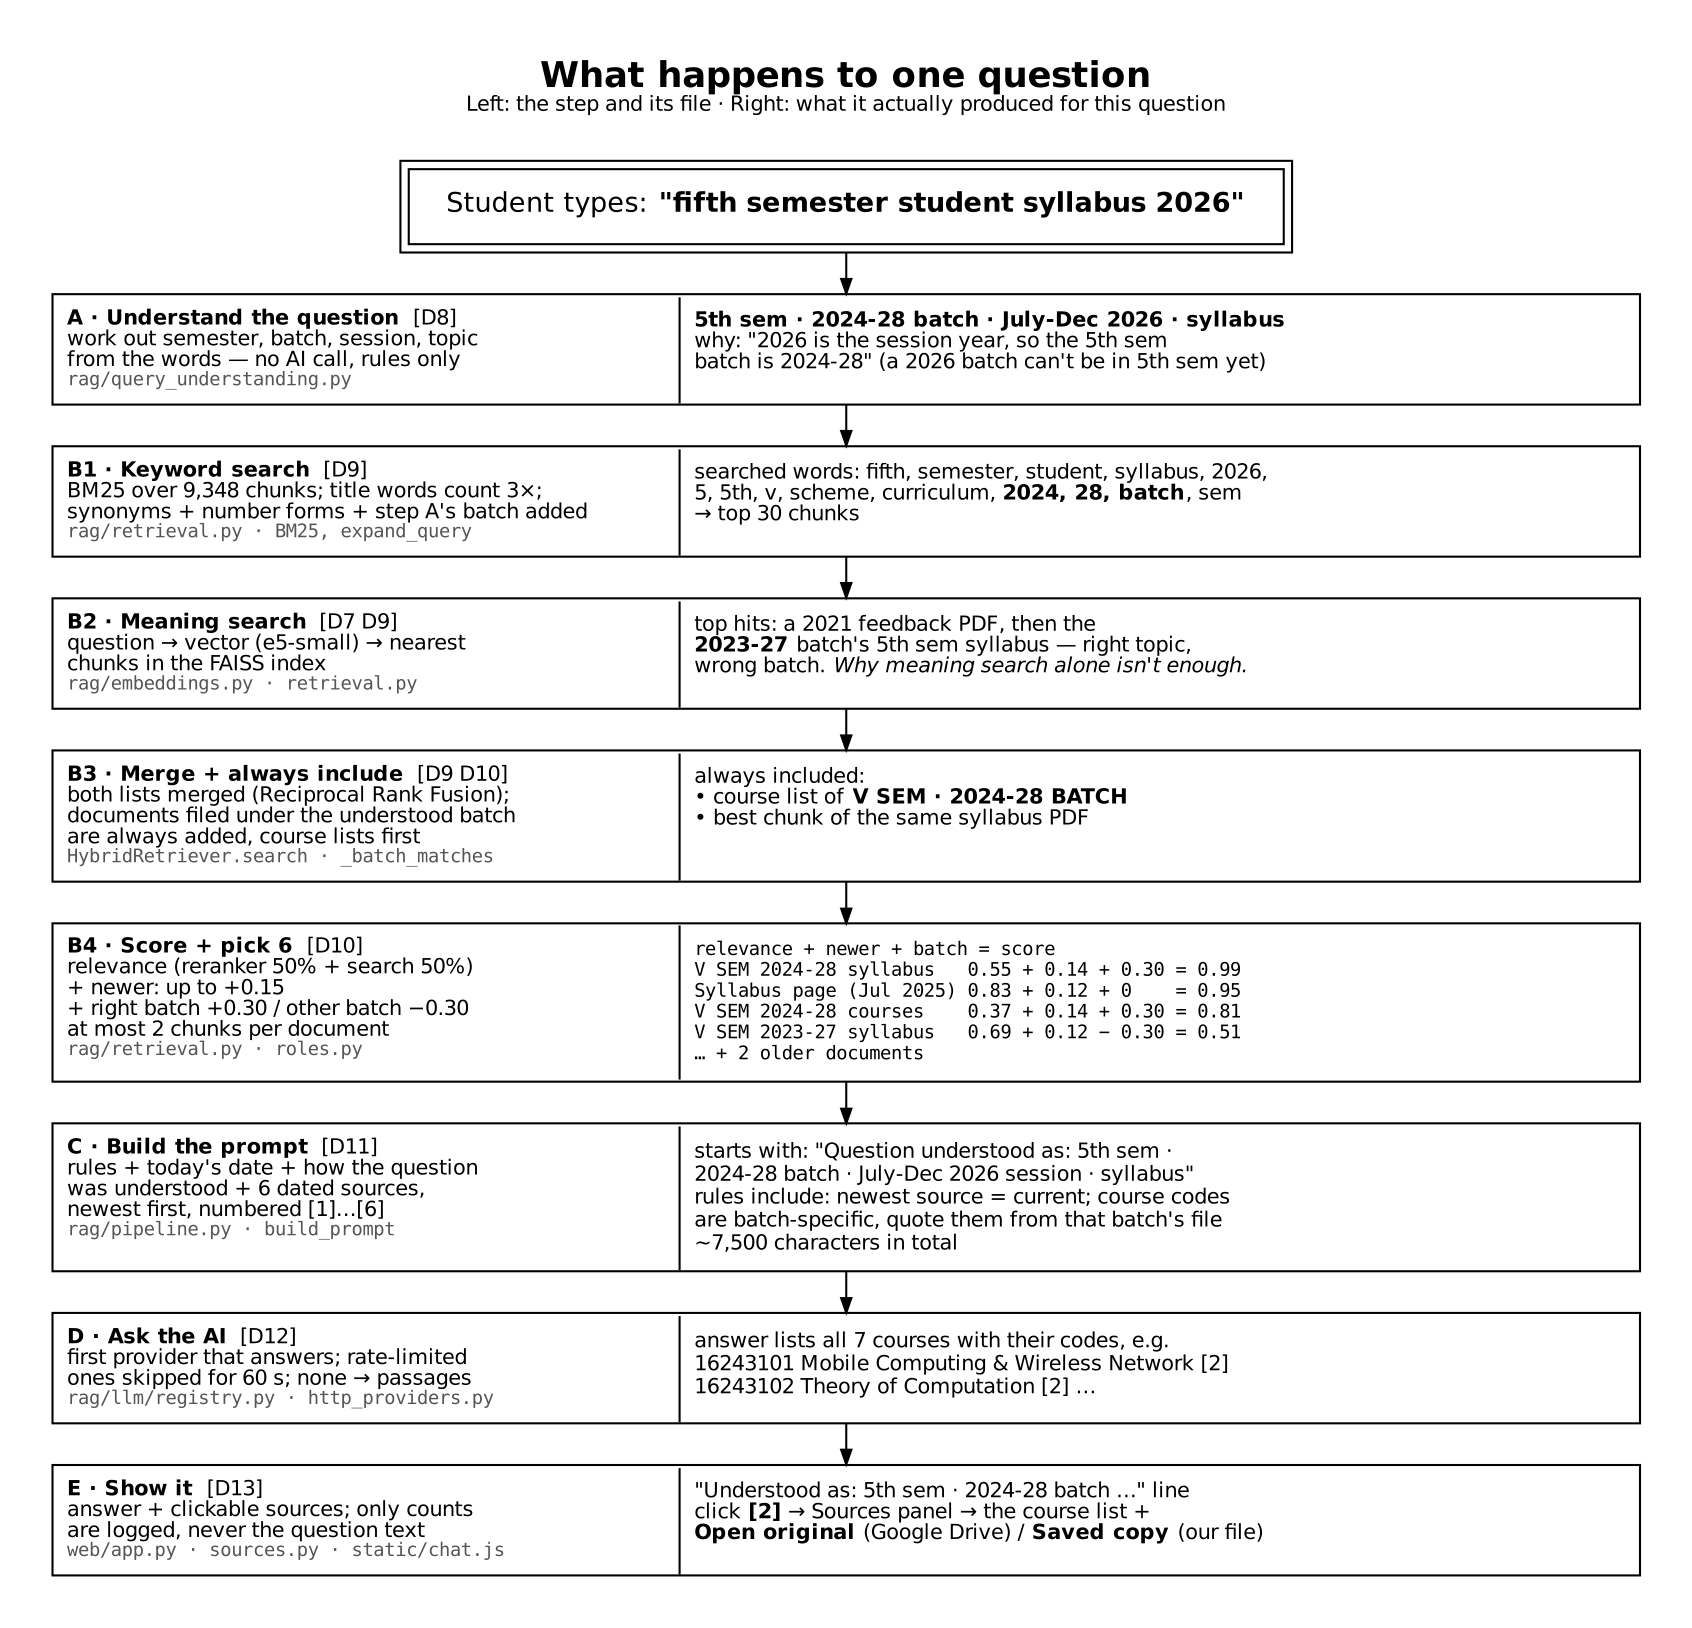
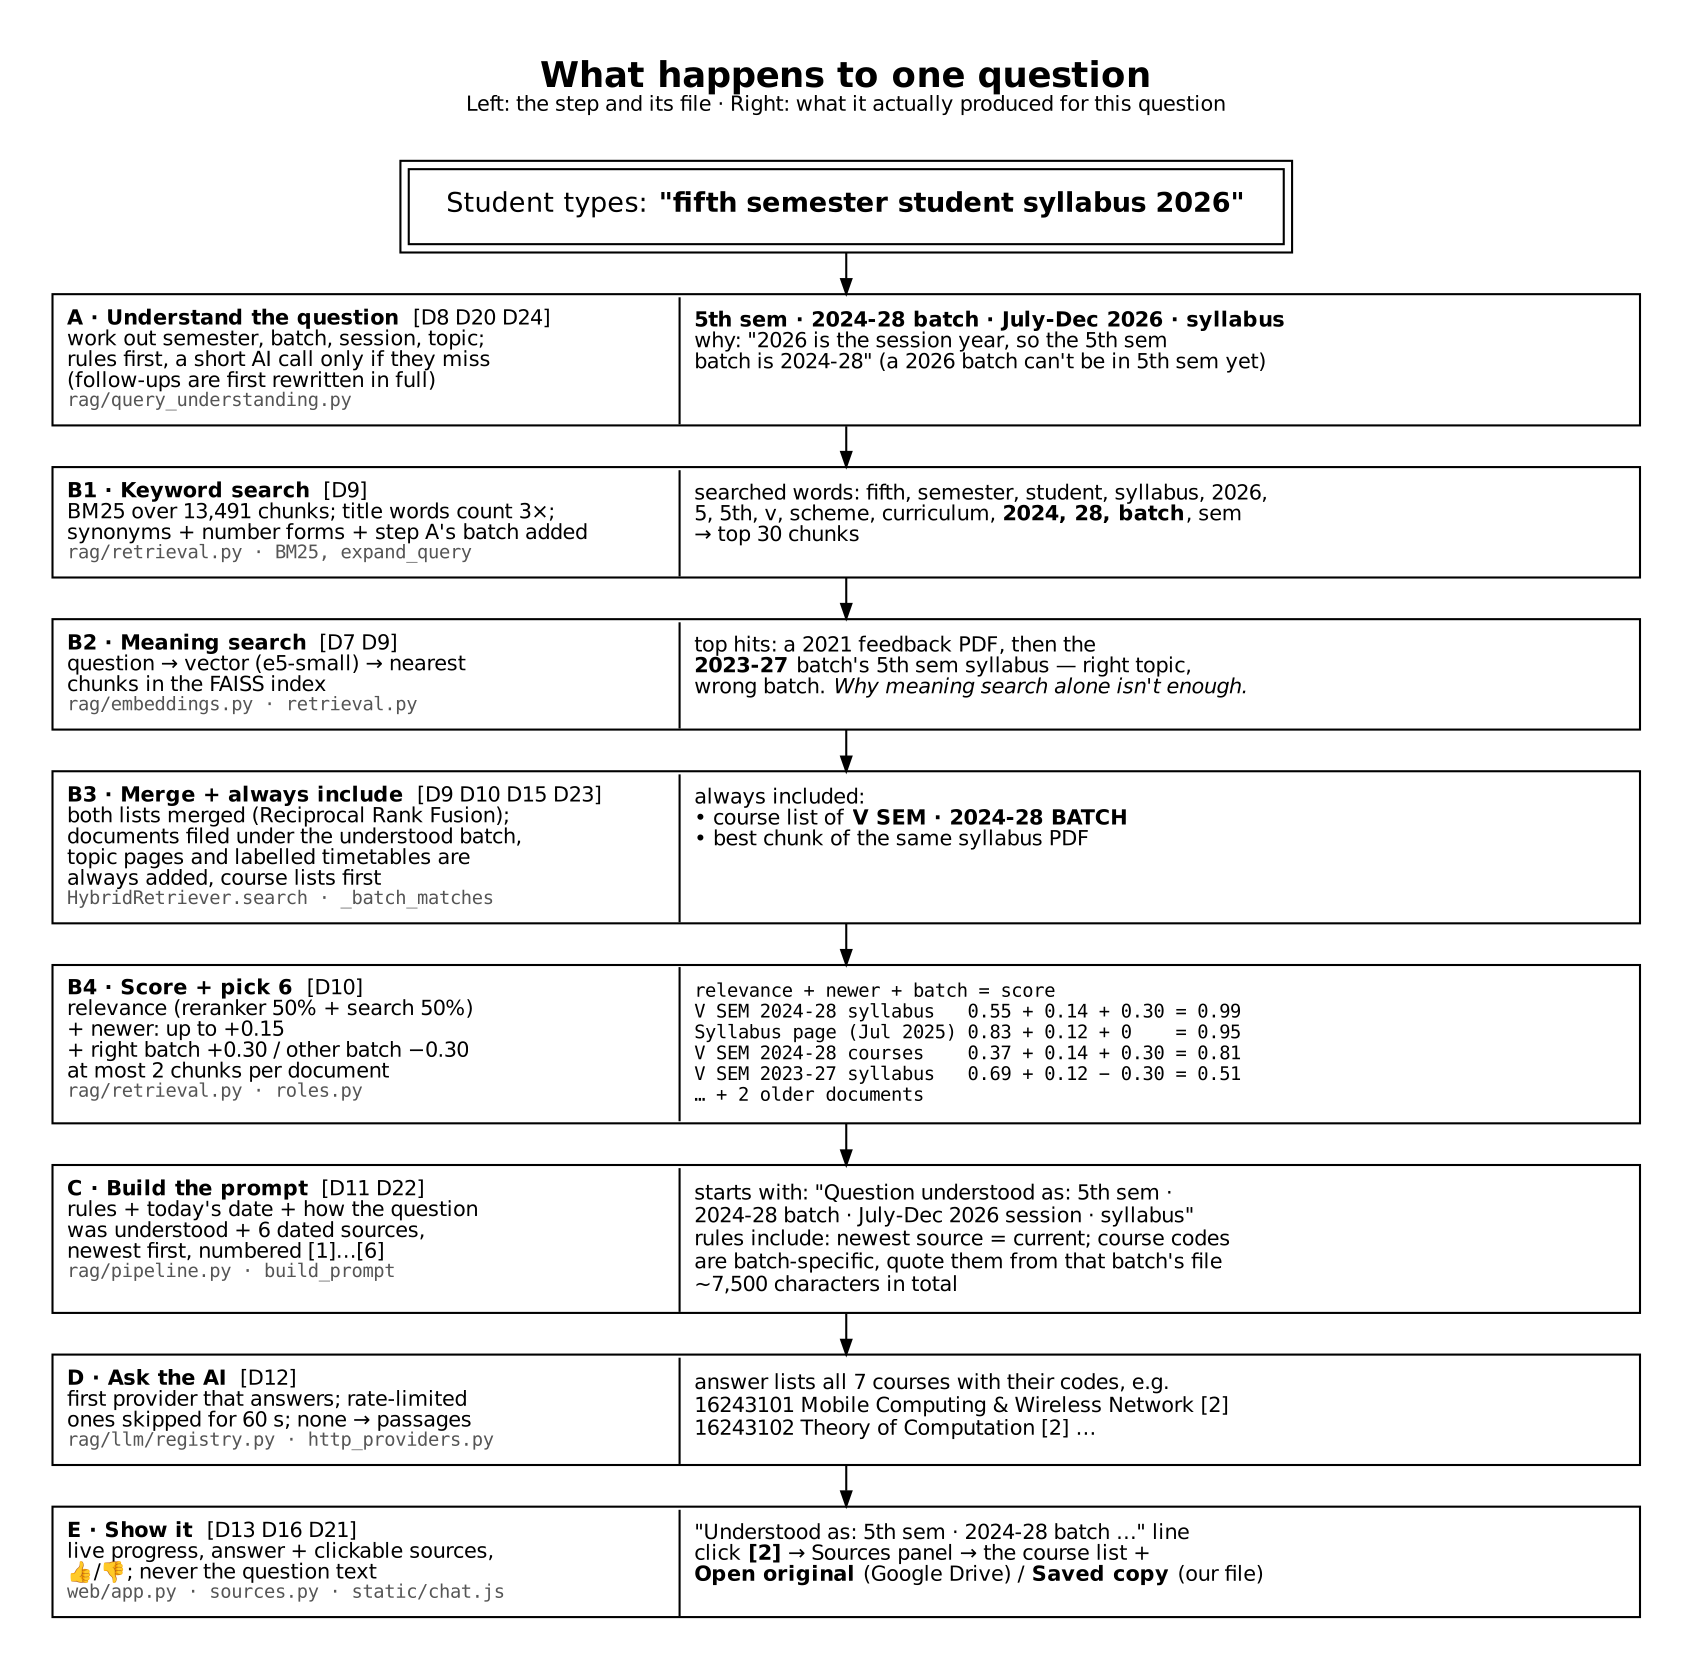
Architecture: all 25 design decisions in the diagrams; D23-D25 added
- architecture.md: D23 documents labelled from their header, D24 AI reads the question when the rules miss, D25 tests check the source; D8 and D18 updated (13,491 chunks)
- architecture.png: every box tagged with its decisions (D15-D25 were missing); new "Checks" note for D17/D25
- question-flow.png: steps A, B3, C, E show D15/D16/D20-D24; chunk count updated

Changed region(s): [[0.0307, 0.0307, 0.9835, 0.9828]]

diff --git a/docs/architecture/architecture.md b/docs/architecture/architecture.md
@@ -25,7 +25,7 @@ A real question traced through the system. The values on the right are actual ou
 
 ## Design decisions
 
-Each row answers: what we chose, why, and what we did **not** choose. D15–D17 came from testing with real-style questions (55, later 63, then 66); D18–D19 record where the build differs from the milestone 1–2 plan, and why; D20–D22 were added for the demo (follow-ups, feedback, whole documents).
+Each row answers: what we chose, why, and what we did **not** choose. D15–D17 came from testing with real-style questions (55, later 63, then 66); D18–D19 record where the build differs from the milestone 1–2 plan, and why; D20–D22 were added for the demo (follow-ups, feedback, whole documents); D23–D25 came from the viva (3 Nov), when a timetable question found the right file but didn't use it.
 
 | # | Decision | Why | Not chosen (and why not) |
 |---|---|---|---|
@@ -36,7 +36,7 @@ Each row answers: what we chose, why, and what we did **not** choose. D15–D17 
 | **D5** | **Date every chunk, best clue first:** full date in the text ("w.e.f. 27/07/2026") › semester start from the batch label › the PDF's own date › server date › a bare year (last, since it's often a book's year). | Without dates, "who is the HOD" mixed 2019 and 2026 documents (temporal hallucination). A bare "2000" from a book list once made this year's syllabus look 26 years old. | Crawl date: every file would look new. No dates: old facts win as often as new ones. |
 | **D6** | **Paragraph-aware chunks** (~900 characters, 150 overlap, cut at paragraph/sentence ends) **plus one course-list chunk per document** (name + code, found by layout). | Fixed 1000-character cuts split names from titles. A course list answers "which subjects" in one piece, and finding it by layout works for both old 7-digit and new 8-digit codes. | Fixed-size cuts (the original version). Matching an exact code format: it would break whenever codes change again. |
 | **D7** | **Multilingual e5-small embeddings**, GPU if present, otherwise CPU. The index records which model built it. | Handles English, Hindi and Hinglish; small enough for a laptop CPU. Recording the model stops a model change from silently returning nonsense. | MiniLM (the original model): English-only. Large embedding models: too slow on the demo laptop. |
-| **D8** | **Rule-based query understanding**: semester, batch, session and topic are worked out before searching. | Documents are filed by batch, but students ask by semester or year ("5th sem syllabus 2026", "3rd year ka TT"). Rules are instant, free and predictable. | An AI rewriting every question: adds 0.5–1 s and costs a call each time. Can be added later as a fallback; it's one function, `understand()`. |
+| **D8** | **Rule-based query understanding**: semester, batch, session and topic are worked out before searching. | Documents are filed by batch, but students ask by semester or year ("5th sem syllabus 2026", "3rd year ka TT"). Rules are instant, free and predictable. | An AI rewriting every question: adds 0.5–1 s and costs a call each time. Since 3 Nov the AI reads the question only when the rules miss (D24). |
 | **D9** | **Hybrid search**: keyword search (BM25, title words ×3, synonyms like HOD → head/dean) **+** meaning search (vectors), merged, then re-scored by a small reranker (blended 50/50 with search scores). | Meaning search alone missed names and codes, and ranked last year's syllabus first (see the flow above). Keywords alone miss paraphrases. The blend stops the reranker from burying a strong match. | Vectors only (the original version). LlamaIndex: offers the same parts, but adds a heavy dependency and code that's harder to explain; it wouldn't fix the date problem by itself. |
 | **D10** | **Ranking boosts:** newer chunks get up to +0.15 (fading over 6 years); the understood batch gets +0.30 and other batches −0.30; role questions always include the newest named holders; at most 2 chunks per document; 6 chunks go to the AI. | Relevance alone can't tell current from old, or this batch from last batch. The per-document cap stops one long PDF from filling every slot. | Filtering out old documents entirely: then "who was HOD in 2024?" couldn't be answered. |
 | **D11** | **Date-aware prompt:** today's date, "question understood as …", a timeline of role holders, every source with its date (newest first), and strict rules (newest = current; "from X to Y" means it's over; course codes are batch-specific; say "not in the sources" instead of guessing; reply in the student's language). | Models trust whatever they read first. Giving them dates and ordering makes the right answer the obvious one, even for a small local model. | Plain "context + question" prompt (the original version): the source of the wrong-HOD answers. |
@@ -46,11 +46,14 @@ Each row answers: what we chose, why, and what we did **not** choose. D15–D17 
 | **D15** | **Topic pages and scope rules.** Questions about labs, contacts, programmes or the department in general get that website page whole (`config.TOPIC_PAGES`); the prompt says to answer only from the IT site, never to read out students from lists, and to say which "lab" it means. | Testing showed the bot missed the Laboratories page ("labs" ≠ "laboratories"), turned a 2019 magazine joke into "yes, there is a mess", gave another college's address from a BoS member list, and listed debarred students by name. | A bigger model alone: it would still not see the Laboratories page, and a privacy rule is cheaper than trusting the model. |
 | **D16** | **Live progress while answering**: the server streams one line per step (understood, searching, sources found, which AI is writing, fallbacks) and the chat shows them as a checklist. | A 10-second wait with a spinner looks broken; showing what it's reading also builds trust. | Fake progress messages on a timer: they would lie when a step is slow. WebSockets: more moving parts than a streamed response. |
 | **D17** | **63 graded test questions** (`scripts/eval.py`) run after every change; latest score 61/63 on Groq. | Each fix in D15 was found by them, and they show the fixes didn't break anything else. | Judging answers by hand each time: slow and easy to fool yourself. An AI judge: costs calls and needs its own checking. |
-| **D18** | **Python, files and FAISS instead of the planned React / Node.js / MongoDB / Pinecone** (Milestones 1–2). | The AI parts (embedding models, FAISS, OCR, rerankers) are Python-first. 9,348 chunks fit in memory (~15 MB) and are searched on the same machine, offline, for free. Text comes from pypdf + OCR and a 10-line .docx reader. | Pinecone: a paid cloud service with an API key and a network round-trip per question, built for millions of documents. Mammoth / pdf-parse: JavaScript libraries, and pdf-parse cannot read scanned pages. |
+| **D18** | **Python, files and FAISS instead of the planned React / Node.js / MongoDB / Pinecone** (Milestones 1–2). | The AI parts (embedding models, FAISS, OCR, rerankers) are Python-first. 13,491 chunks fit in memory (~20 MB) and are searched on the same machine, offline, for free. Text comes from pypdf + OCR and a 10-line .docx reader. | Pinecone: a paid cloud service with an API key and a network round-trip per question, built for millions of documents. Mammoth / pdf-parse: JavaScript libraries, and pdf-parse cannot read scanned pages. |
 | **D19** | **One session, no accounts, nothing stored.** The chat is a help widget: ask one question or several, reload and it is gone. Only the admin page has a password. | Students ask personal things; a help desk doesn't need to remember them. No login means no friction and no student data to protect. | Student logins and saved chat history (Milestone 2 design): more code, more personal data, and no benefit for one-off questions. |
 | **D20** | **Follow-ups are rewritten, not remembered.** The browser sends the last 3 turns; one short AI call turns "and who was before him?" into a complete question before searching. | Search works on complete questions; the server still stores nothing (D19). | Sending the whole chat to the search: old words pull in wrong pages. Server-side chat memory: personal data to protect. |
 | **D21** | **👍/👎 with an optional comment, never the question.** Stored: vote, cited sources, model, comment. | Shows which sources lead to bad answers, without keeping what students asked. | Logging questions to review later: breaks the privacy promise. |
 | **D22** | **Whole-document mode.** If the top 3 matches come from one document of ≤ 12,000 characters, the AI gets it whole; conclusions not written in it start with "This suggests". | Counting and comparing ("how many groups…") need the full list; the marker keeps a conclusion apart from a fact. | Always sending more pieces: costs tokens on every question. A bigger top-k: still cuts lists in the middle. |
+| **D23** | **Documents labelled from their own header.** When the index loads, each document's first lines are read once: type (class timetable / exam timetable / syllabus), B.Tech or M.Tech, semester, session ("Time-Table, B.Tech, IT Semester-V (Session: July-Dec 2026)"). A one-semester timetable question gets that timetable whole; "college timings" gets this session's class timetables. | Timetables are linked as "View More Details" and named "jul24 5.pdf" or "5th sem TT.pdf", so search couldn't tell which semester a file was for. A document's header is written for people and is reliable. No rebuild needed. | Adding words to lists ("TT", "routine"...): never complete. Renaming files: not in our control. |
+| **D24** | **The AI reads the question only when the rules miss** (no topic, or no semester for a timetable / exam / syllabus / result question). One short call to a small online model returns topic, semester, year, batch and an English search query as JSON. The rules win where both found something. | Students write "paanchve sem ka routine", "V semester class schedule", "college kitne baje". Rules stay instant and free for the common wordings; the AI covers the rest. Never a local GPU model. | An AI call on every question (D8). More hand-written word lists: they broke "library timings". |
+| **D25** | **Tests check the source, not just the words.** A test question can name the document that must be found (`"src"`); `eval.py --sources` checks search alone, without writing answers. | An answer can contain the right words from the wrong document: a timetable test passed while the website failed. Checking sources is fast and needs no answer calls. | Grading answer words only (D17): it missed that failure. |
 
 ---
 
